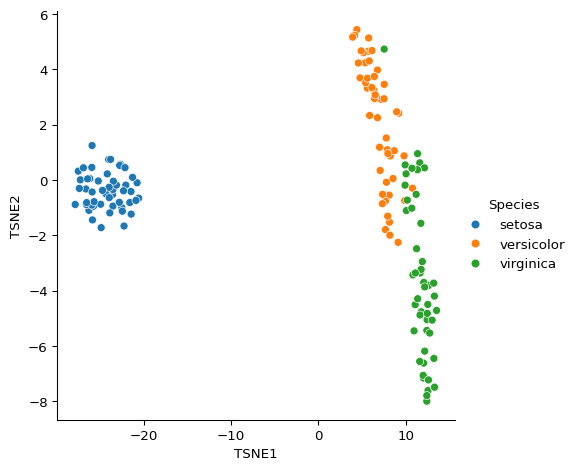
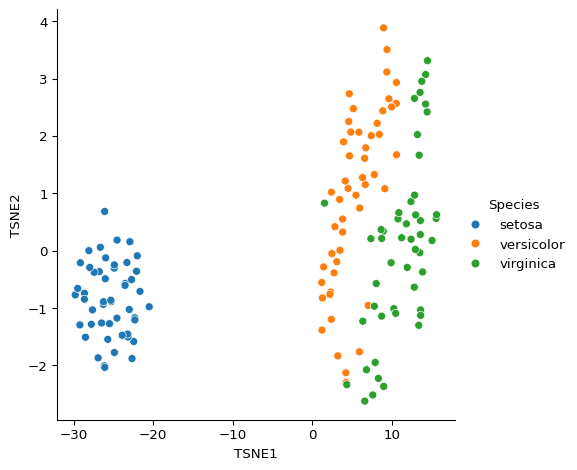
Update readme

diff --git a/README.md b/README.md
@@ -100,7 +100,7 @@ print(x.pcs)
 ```
 
     pca object:
-     - Dimensions: 150 (samples) x 2 (principal components)
+     - Dimensions: 150 (samples) x 2 (pca components)
      - Scaling: Zscore
      - Method: SVD
 
@@ -108,21 +108,21 @@ print(x.pcs)
 print(x.pcs.data)
 ```
 
-          Sample1   Sample2   Sample3   Sample4   Sample5   Sample6   Sample7  \
-    PC1 -2.264703 -2.080961 -2.364229 -2.299384 -2.389842 -2.075631 -2.444029   
-    PC2  0.480027 -0.674134 -0.341908 -0.597395  0.646835  1.489178  0.047644   
+           Sample1   Sample2   Sample3   Sample4   Sample5   Sample6   Sample7  \
+    PCA1 -2.264703 -2.080961 -2.364229 -2.299384 -2.389842 -2.075631 -2.444029   
+    PCA2  0.480027 -0.674134 -0.341908 -0.597395  0.646835  1.489178  0.047644   
 
-          Sample8   Sample9  Sample10  ...  Sample141  Sample142  Sample143  \
-    PC1 -2.232847 -2.334640 -2.184328  ...   2.014810   1.901784   1.157882   
-    PC2  0.223148 -1.115328 -0.469014  ...   0.613886   0.689575  -0.698870   
+           Sample8   Sample9  Sample10  ...  Sample141  Sample142  Sample143  \
+    PCA1 -2.232847 -2.334640 -2.184328  ...   2.014810   1.901784   1.157882   
+    PCA2  0.223148 -1.115328 -0.469014  ...   0.613886   0.689575  -0.698870   
 
-         Sample144  Sample145  Sample146  Sample147  Sample148  Sample149  \
-    PC1   2.040558   1.998147   1.870503   1.564580   1.521170   1.372788   
-    PC2   0.867521   1.049169   0.386966  -0.896687   0.269069   1.011254   
+          Sample144  Sample145  Sample146  Sample147  Sample148  Sample149  \
+    PCA1   2.040558   1.998147   1.870503   1.564580   1.521170   1.372788   
+    PCA2   0.867521   1.049169   0.386966  -0.896687   0.269069   1.011254   
 
-         Sample150  
-    PC1   0.960656  
-    PC2  -0.024332  
+          Sample150  
+    PCA1   0.960656  
+    PCA2  -0.024332  
 
     [2 rows x 150 columns]
 
@@ -149,9 +149,9 @@ print(x.pcs.description)
 print(x.pcs.annotation)
 ```
 
-        ID  Percentage variance explained
-    0  PC1                      72.962445
-    1  PC2                      22.850762
+         ID  Percentage variance explained
+    0  PCA1                      72.962445
+    1  PCA2                      22.850762
 
 ### LDA
 
@@ -164,28 +164,29 @@ print(x.lda)
 ```
 
     lda object:
-     - Dimensions: 150 (samples) x 2 (LDA components)
+     - Dimensions: 150 (samples) x 2 (lda components)
+     - Scaling: Zscore
      - Target: Species
 
 ``` python
 print(x.lda.data)
 ```
 
-          Sample1   Sample2   Sample3   Sample4   Sample5   Sample6   Sample7  \
-    LD1  8.061800  7.128688  7.489828  6.813201  8.132309  7.701947  7.212618   
-    LD2 -0.300421  0.786660  0.265384  0.670631 -0.514463 -1.461721 -0.355836   
+           Sample1   Sample2   Sample3   Sample4   Sample5   Sample6   Sample7  \
+    LDA1  8.061800  7.128688  7.489828  6.813201  8.132309  7.701947  7.212618   
+    LDA2 -0.300421  0.786660  0.265384  0.670631 -0.514463 -1.461721 -0.355836   
 
-          Sample8   Sample9  Sample10  ...  Sample141  Sample142  Sample143  \
-    LD1  7.605294  6.560552  7.343060  ...  -6.653087  -5.105559  -5.507480   
-    LD2  0.011634  1.015164  0.947319  ...  -1.805320  -1.992182   0.035814   
+           Sample8   Sample9  Sample10  ...  Sample141  Sample142  Sample143  \
+    LDA1  7.605294  6.560552  7.343060  ...  -6.653087  -5.105559  -5.507480   
+    LDA2  0.011634  1.015164  0.947319  ...  -1.805320  -1.992182   0.035814   
 
-         Sample144  Sample145  Sample146  Sample147  Sample148  Sample149  \
-    LD1  -6.796019  -6.847359  -5.645003  -5.179565  -4.967741  -5.886145   
-    LD2  -1.460687  -2.428951  -1.677717   0.363475  -0.821141  -2.345091   
+          Sample144  Sample145  Sample146  Sample147  Sample148  Sample149  \
+    LDA1  -6.796019  -6.847359  -5.645003  -5.179565  -4.967741  -5.886145   
+    LDA2  -1.460687  -2.428951  -1.677717   0.363475  -0.821141  -2.345091   
 
-         Sample150  
-    LD1  -4.683154  
-    LD2  -0.332034  
+          Sample150  
+    LDA1  -4.683154  
+    LDA2  -0.332034  
 
     [2 rows x 150 columns]
 
@@ -200,27 +201,28 @@ print(x.tsne)
 ```
 
     tsne object:
-     - Dimensions: 150 (samples) x 2 (t-SNE components)
+     - Dimensions: 150 (samples) x 2 (tsne components)
+     - Scaling: Zscore
 
 ``` python
 print(x.tsne.data)
 ```
 
              Sample1    Sample2    Sample3    Sample4    Sample5    Sample6  \
-    TSNE1 -23.580931 -26.291704 -26.193335 -26.638256 -23.545013 -21.608295   
-    TSNE2  -0.522060  -1.093696   0.053057  -0.321696  -0.941377  -0.810961   
+    TSNE1 -26.283514 -22.458551 -23.502516 -22.724354 -26.786913 -28.650599   
+    TSNE2  -0.934040  -1.582246  -0.568364  -0.502646  -0.364475  -0.741429   
 
              Sample7    Sample8    Sample9   Sample10  ...  Sample141  Sample142  \
-    TSNE1 -25.960800 -24.347078 -27.391277 -25.768770  ...   12.46354  11.074054   
-    TSNE2   0.458465  -0.496077  -0.301682  -0.945293  ...   -4.81950  -4.504594   
+    TSNE1 -24.550871 -25.286180 -21.671492 -23.178801  ...  12.926679  12.963368   
+    TSNE2   0.185788  -0.886462  -0.708517  -1.504229  ...   0.023204   0.624381   
 
            Sample143  Sample144  Sample145  Sample146  Sample147  Sample148  \
-    TSNE1  11.334437  12.740586  13.016592  11.363099  10.691204  11.097084   
-    TSNE2   0.373205  -5.528937  -5.062658  -4.289077  -1.015444  -3.357184   
+    TSNE1   7.881903  13.546475  13.831253   12.38452   6.782580  11.200541   
+    TSNE2  -1.946566   0.282336  -0.369666    0.20085  -2.073794   0.227081   
 
            Sample149  Sample150  
-    TSNE1  13.195991  10.712410  
-    TSNE2  -3.724547   0.427633  
+    TSNE1  13.349828   8.691272  
+    TSNE2  -1.299510   0.213793  
 
     [2 rows x 150 columns]
 
@@ -239,7 +241,7 @@ print(x.umap)
 ```
 
     umap object:
-     - Dimensions: 150 (samples) x 2 (UMAP projections)
+     - Dimensions: 150 (samples) x 2 (umap components)
      - Scaling: Zscore
 
 ``` python
